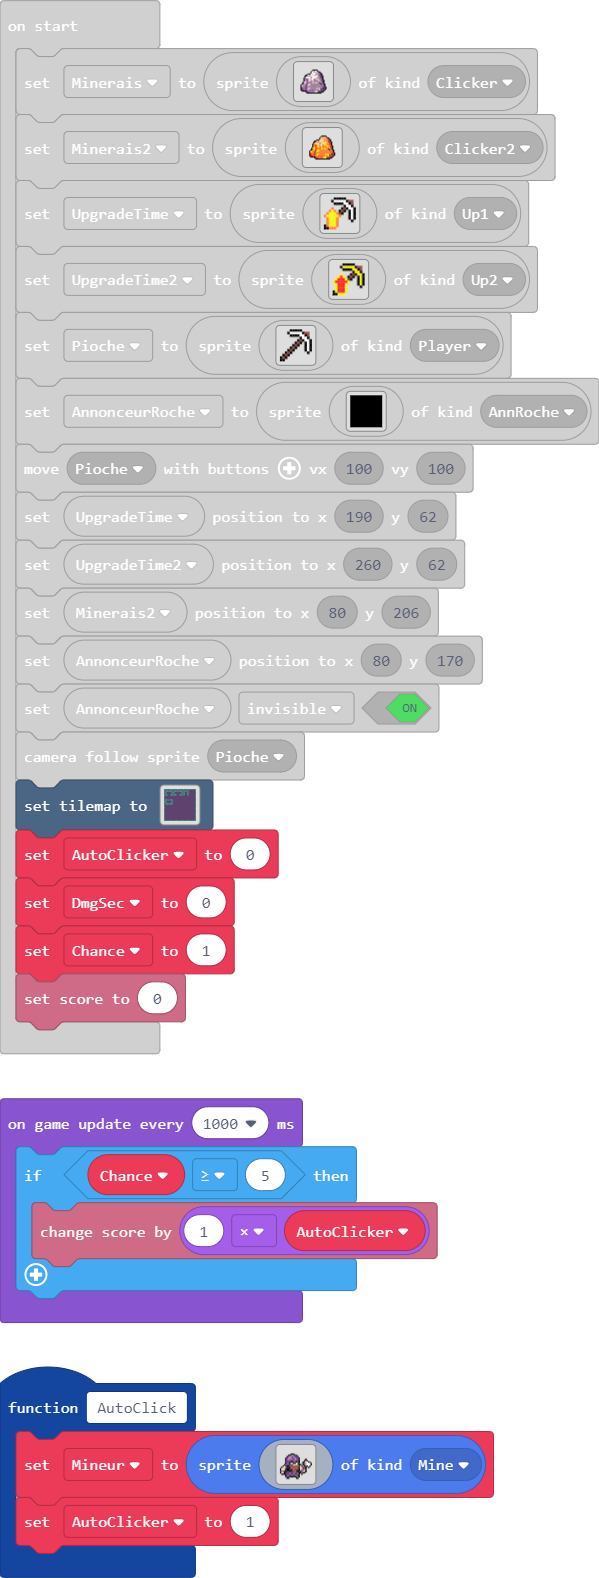
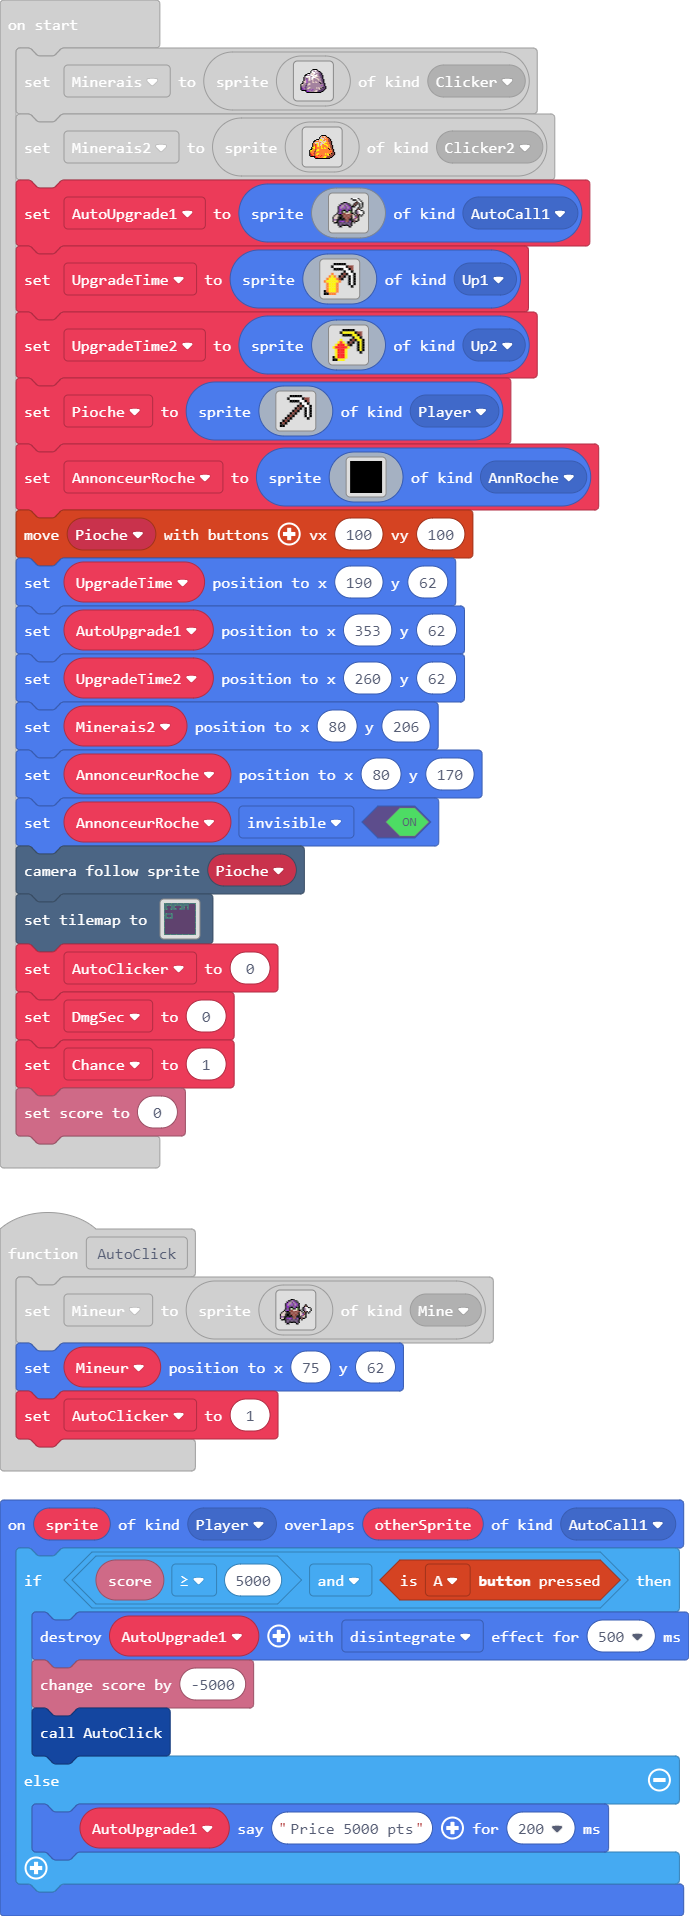
Update main.blocks, main.ts

diff --git a/main.ts b/main.ts
@@ -7,6 +7,7 @@ namespace SpriteKind {
     export const Up4 = SpriteKind.create()
     export const Clicker2 = SpriteKind.create()
     export const Mine = SpriteKind.create()
+    export const AutoCall1 = SpriteKind.create()
 }
 namespace myTiles {
     //% blockIdentity=images._tile
@@ -73,6 +74,7 @@ f d d f f a a a a c e e c a f f e f f . . . . .
 . . . . f c c f f f f f c c f . . . . . . . . . 
 . . . . . f f . . . . . f f . . . . . . . . . . 
 `, SpriteKind.Mine)
+    Mineur.setPosition(75, 62)
     AutoClicker = 1
 }
 sprites.onOverlap(SpriteKind.Player, SpriteKind.Up4, function (sprite, otherSprite) {
@@ -84,6 +86,15 @@ sprites.onOverlap(SpriteKind.Player, SpriteKind.Up4, function (sprite, otherSpri
         }
     } else {
         UpgradeTime4.say("Price: 1000 pts", 200)
+    }
+})
+sprites.onOverlap(SpriteKind.Player, SpriteKind.AutoCall1, function (sprite, otherSprite) {
+    if (info.score() >= 5000 && controller.A.isPressed()) {
+        AutoUpgrade1.destroy(effects.disintegrate, 500)
+        info.changeScoreBy(-5000)
+        AutoClick()
+    } else {
+        AutoUpgrade1.say("Price 5000 pts", 200)
     }
 })
 function Pioche3 () {
@@ -233,6 +244,7 @@ let AnnonceurRoche: Sprite = null
 let Pioche: Sprite = null
 let UpgradeTime2: Sprite = null
 let UpgradeTime: Sprite = null
+let AutoUpgrade1: Sprite = null
 let Minerais = sprites.create(img`
 . . . . . . . . . . . . . . . . . . . . . . . . . . . . . . . . 
 . . . . . . . . . . . . . . . . . . . . . . . . . . . . . . . . 
@@ -301,6 +313,30 @@ let Minerais2 = sprites.create(img`
 . . . . . . . . . . . . . . . . . . . . . . . . . . . . . . . . 
 . . . . . . . . . . . . . . . . . . . . . . . . . . . . . . . . 
 `, SpriteKind.Clicker2)
+AutoUpgrade1 = sprites.create(img`
+. . . . . . . . . . . . . . f 1 1 1 1 f . . . . 
+. . . . . . . . . . . . . . . f f f 1 1 f . . . 
+. . . . . . . . . . . . . . . . . . f 1 1 f . . 
+. . . . . . . . f f f . . . . . . f e f 1 1 f . 
+. . . . . . f f c b a f f . . . f e f . f 1 f . 
+. . . . . f a b b c b a c f . f e f . . f 1 f . 
+. . . . f a b b b a c b a c f f f . . . f 1 f . 
+. . . . f a b b a a c b a a f . . . . f . f . . 
+. . . . f a a c c c c a c c f . . . f e f . . . 
+. . . . f a a f f f c a f f f . . f c 1 1 f f . 
+. . . . f c c f 1 7 f f 1 7 f . . f c b 1 1 1 f 
+. . . f c a a f e e d d d e f f . f c b 1 1 1 f 
+. . f d f f f e e e e e e e e d f . f e f 1 f . 
+. f d d d f f f e e e e e e f d d f e f . f . . 
+f d d d f f f f e e e e e e f d d a e f . . . . 
+f d d d f f f f f e e e e f f d c e d f . . . . 
+f a c f f f f f f f e e f f f f c d d f . . . . 
+f d d f f a a a a c e e c a f f e f f . . . . . 
+. f f f f c c c c c c c c c f . f . . . . . . . 
+. . . . f c c c c c c c c c f . . . . . . . . . 
+. . . . f c c f f f f f c c f . . . . . . . . . 
+. . . . . f f . . . . . f f . . . . . . . . . . 
+`, SpriteKind.AutoCall1)
 UpgradeTime = sprites.create(img`
 . . . . f f f f f . . . . 
 . . . f 1 1 1 1 1 f e e . 
@@ -382,6 +418,7 @@ f f f f f f f f f f f f f f f f f f f f f f f f f f f f f f f f
 `, SpriteKind.AnnRoche)
 controller.moveSprite(Pioche, 100, 100)
 UpgradeTime.setPosition(190, 62)
+AutoUpgrade1.setPosition(353, 62)
 UpgradeTime2.setPosition(260, 62)
 Minerais2.setPosition(80, 206)
 AnnonceurRoche.setPosition(80, 170)
